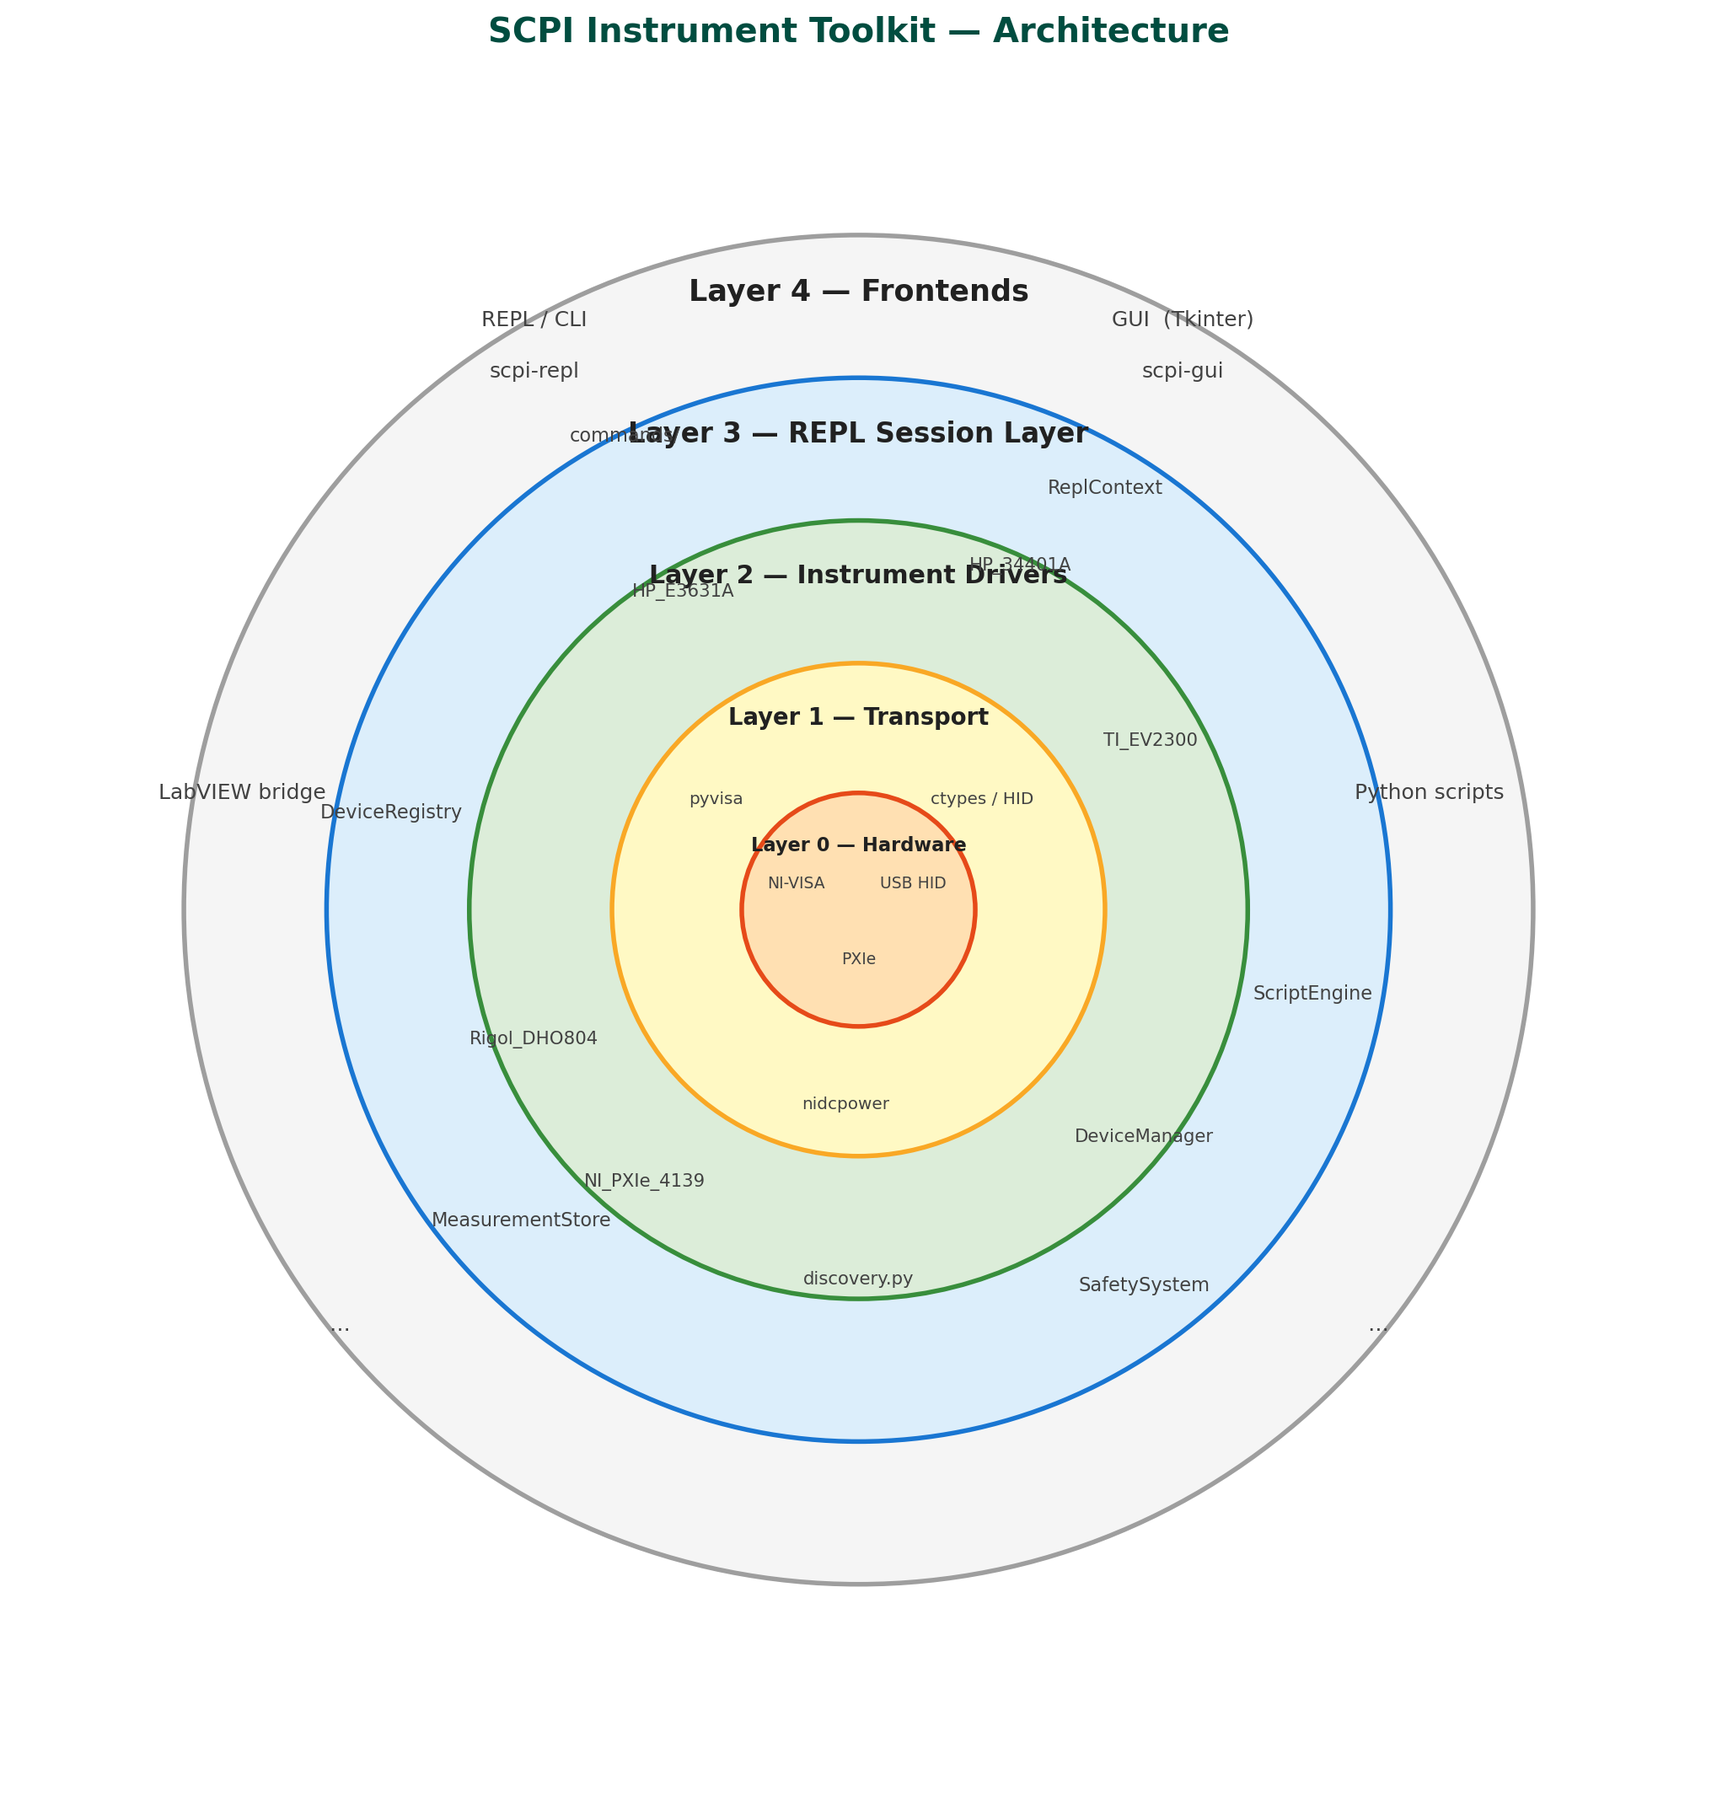
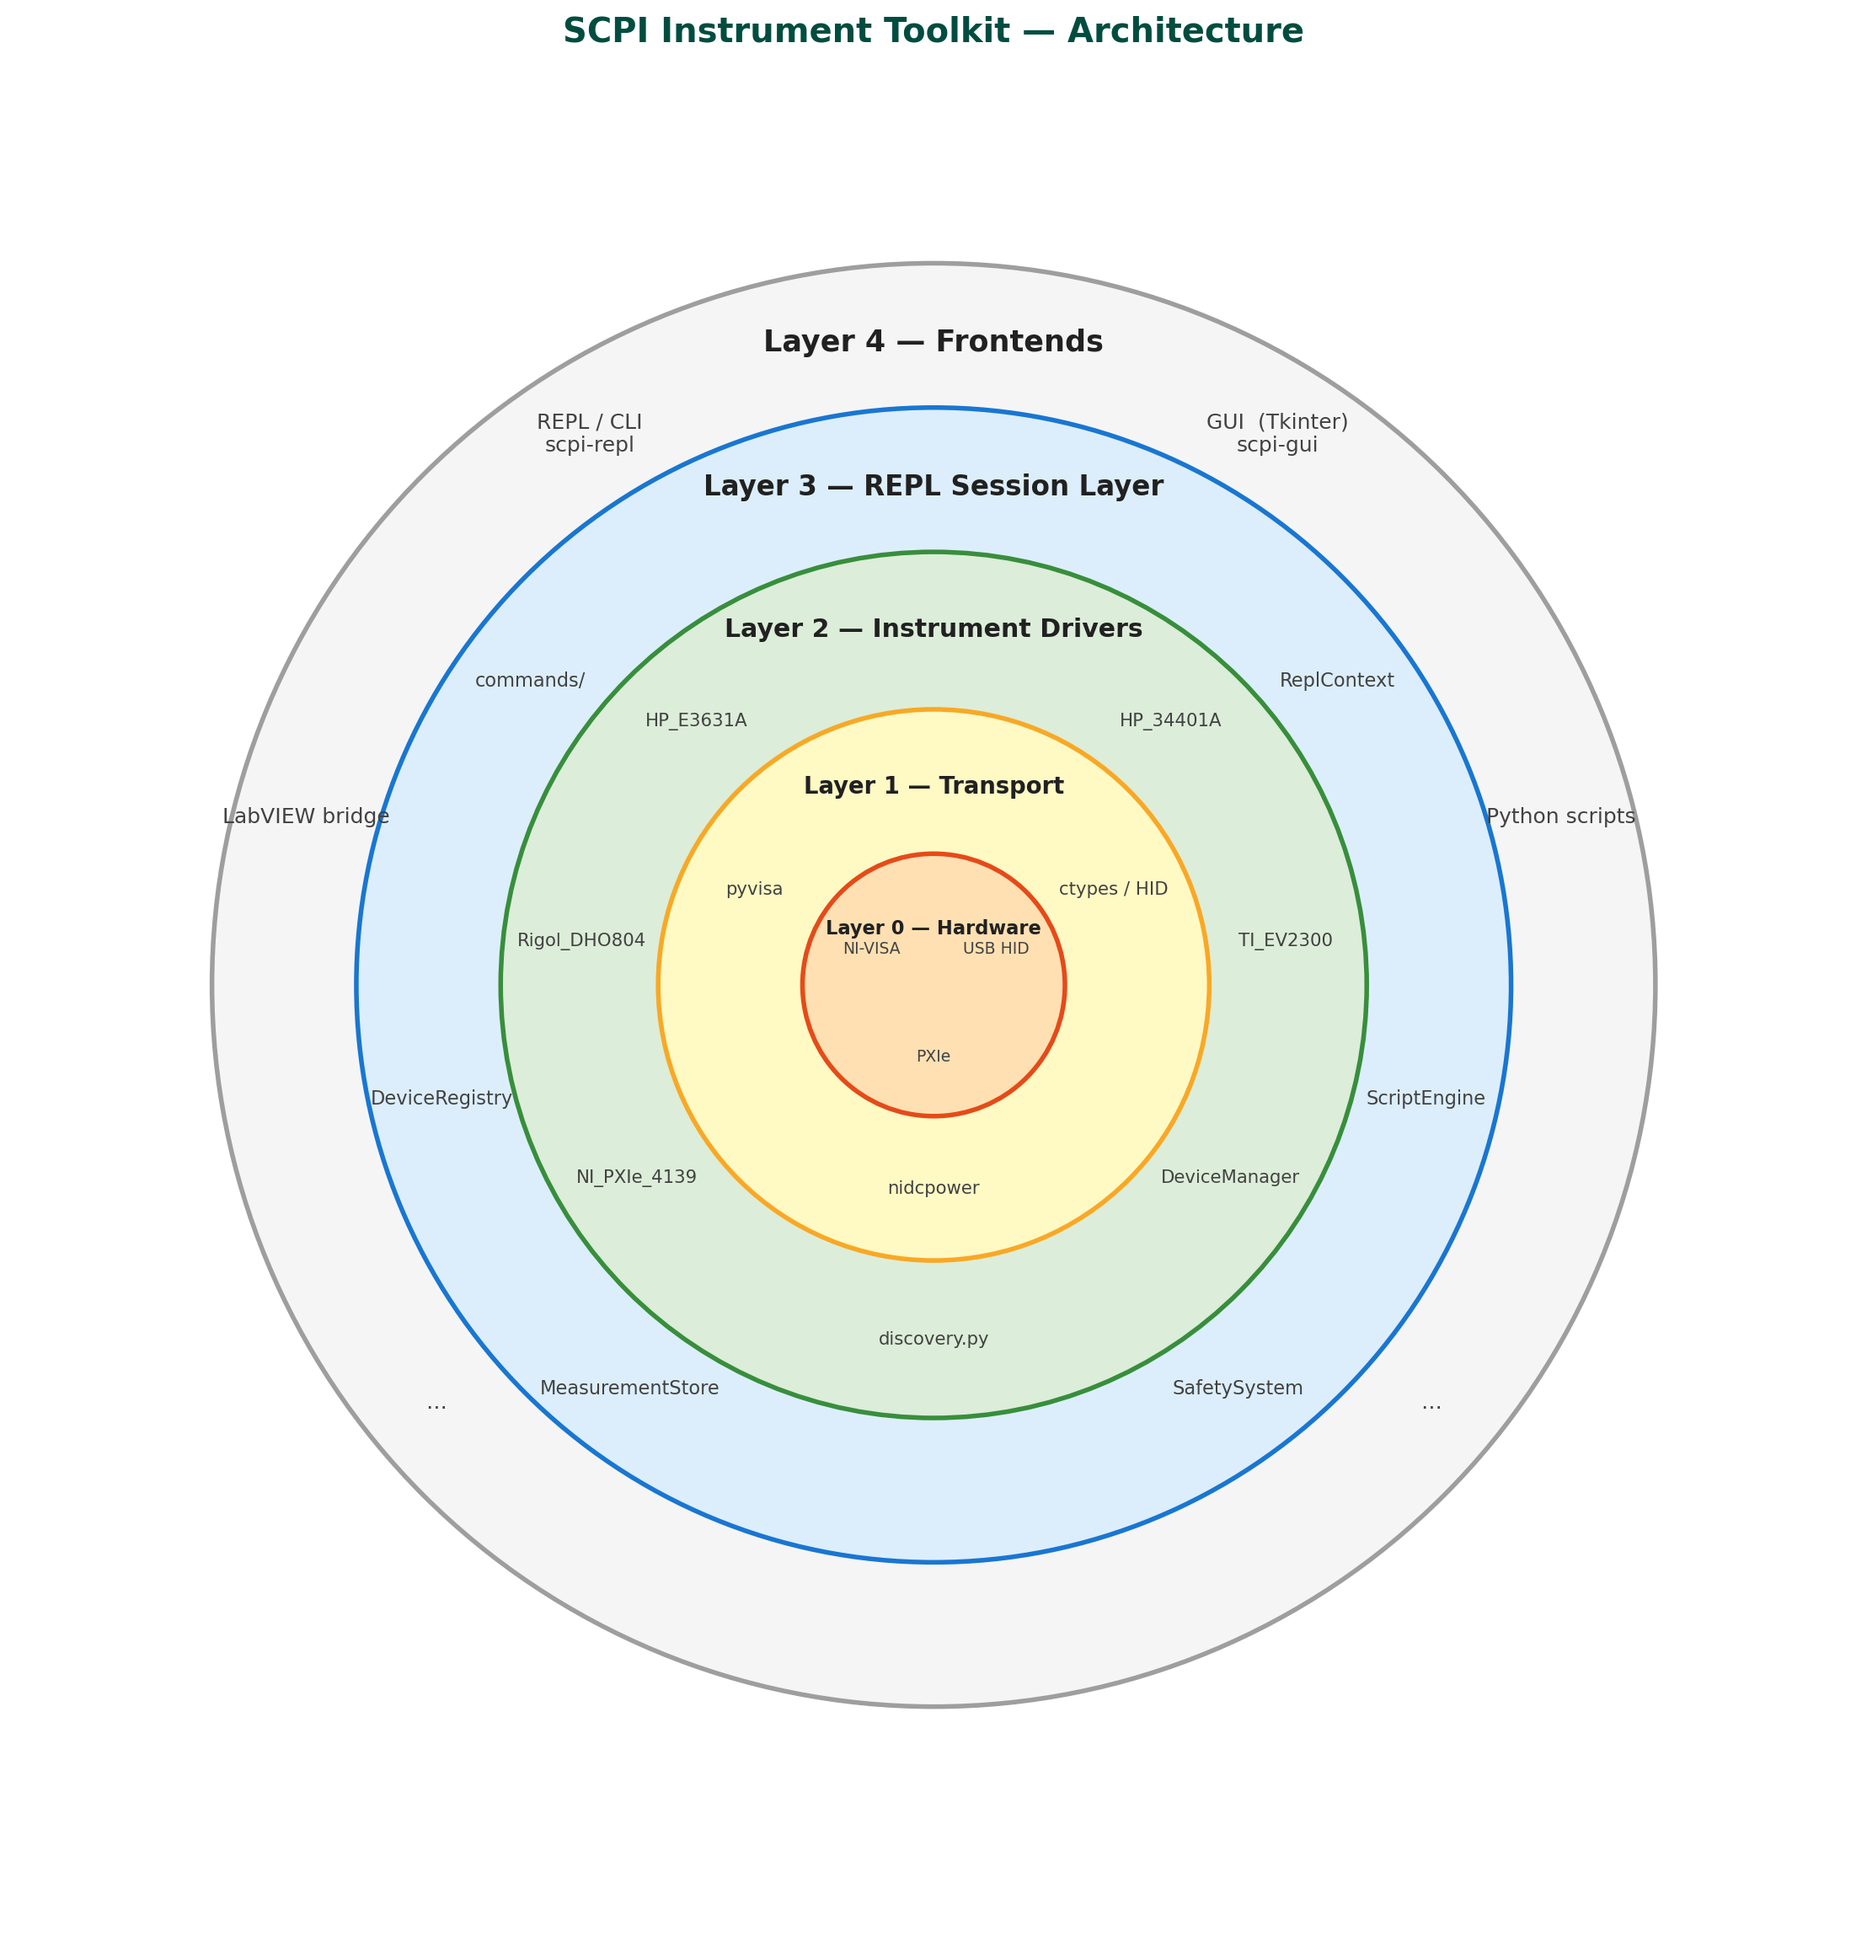
Fix architecture diagram text overlap
Switch to angle-based item placement (numpy trig) with interleaved
angles between adjacent rings. Merge REPL/CLI+scpi-repl and
GUI+scpi-gui into two-line labels to eliminate intra-ring crowding.

diff --git a/scripts/gen_architecture_diagram.py b/scripts/gen_architecture_diagram.py
@@ -1,94 +1,112 @@
 """Generate concentric-circle architecture diagram (reference: AI/ML onion style)."""
 
+import numpy as np
 import matplotlib.pyplot as plt
 
-fig, ax = plt.subplots(figsize=(12, 12))
-ax.set_xlim(-6.5, 6.5)
-ax.set_ylim(-6.8, 6.5)
+
+def xy(r, deg):
+    """Cartesian position at radius r, angle deg (CCW from +x axis)."""
+    rad = np.radians(deg)
+    return float(r * np.cos(rad)), float(r * np.sin(rad))
+
+
+fig, ax = plt.subplots(figsize=(13, 13))
+ax.set_xlim(-7, 7)
+ax.set_ylim(-7.3, 7)
 ax.set_aspect("equal")
 ax.axis("off")
 fig.patch.set_facecolor("white")
 
-# Each layer: (radius, fill, edge, title, title_fs, item_fs, [(label, x, y), ...])
-# Items verified to be inside their ring (r_inner < sqrt(x²+y²) < r_outer)
+# ── layer definitions ──────────────────────────────────────────────────────
+# (r_outer, fill, edge, title, title_fs, item_fs, [(label, x, y), ...])
+#
+# Radii:  5.5 | 4.4 | 3.3 | 2.1 | 1.0
+# Mid-r:      4.95  3.85  2.70  1.55  0.55
+#
+# Angles are interleaved between rings so no two adjacent items share
+# similar (angle, radius) coordinates — prevents cross-ring visual crowding.
+
+m4, m3, m2, m1, m0 = 4.95, 3.85, 2.70, 1.55, 0.55
+
 LAYERS = [
+    # ── Layer 4 — Frontends ────────────────────────────────────────────────
     (
-        5.2, "#F5F5F5", "#9E9E9E",
+        5.5, "#F5F5F5", "#9E9E9E",
         "Layer 4 — Frontends", 14, 10,
         [
-            ("REPL / CLI",        -2.5,  4.55),
-            ("scpi-repl",         -2.5,  4.15),
-            ("GUI  (Tkinter)",     2.5,  4.55),
-            ("scpi-gui",           2.5,  4.15),
-            ("LabVIEW bridge",    -4.75,  0.9),
-            ("Python scripts",     4.4,   0.9),
-            ("…",                 -4.0,  -3.2),
-            ("…",                  4.0,  -3.2),
+            ("REPL / CLI\nscpi-repl",    *xy(m4, 122)),   # upper-left
+            ("GUI  (Tkinter)\nscpi-gui", *xy(m4,  58)),   # upper-right
+            ("LabVIEW bridge",           *xy(m4, 165)),   # left
+            ("Python scripts",           *xy(m4,  15)),   # right
+            ("…",                        *xy(m4, 220)),   # lower-left
+            ("…",                        *xy(m4, 320)),   # lower-right
         ],
     ),
+    # ── Layer 3 — REPL Session Layer ───────────────────────────────────────
     (
-        4.1, "#DCEEFB", "#1976D2",
+        4.4, "#DCEEFB", "#1976D2",
         "Layer 3 — REPL Session Layer", 13, 9,
         [
-            ("commands/",         -1.8,   3.65),
-            ("ReplContext",         1.9,   3.25),
-            ("DeviceRegistry",     -3.6,   0.75),
-            ("ScriptEngine",        3.5,  -0.65),
-            ("MeasurementStore",   -2.6,  -2.4),
-            ("SafetySystem",        2.2,  -2.9),
+            ("commands/",         *xy(m3, 143)),
+            ("ReplContext",        *xy(m3,  37)),
+            ("DeviceRegistry",    *xy(m3, 193)),
+            ("ScriptEngine",      *xy(m3, 347)),
+            ("MeasurementStore",  *xy(m3, 233)),
+            ("SafetySystem",      *xy(m3, 307)),
         ],
     ),
+    # ── Layer 2 — Instrument Drivers ───────────────────────────────────────
     (
-        3.0, "#DCEDD9", "#388E3C",
+        3.3, "#DCEDD9", "#388E3C",
         "Layer 2 — Instrument Drivers", 12, 8.5,
         [
-            ("HP_E3631A",    -1.35,  2.45),
-            ("HP_34401A",     1.25,  2.65),
-            ("Rigol_DHO804", -2.5,  -1.0),
-            ("TI_EV2300",    2.25,   1.3),
-            ("NI_PXIe_4139", -1.65, -2.1),
-            ("DeviceManager", 2.2,  -1.75),
-            ("discovery.py",  0.0,  -2.85),
+            ("HP_E3631A",          *xy(m2, 132)),
+            ("HP_34401A",          *xy(m2,  48)),
+            ("Rigol_DHO804",       *xy(m2, 173)),
+            ("TI_EV2300",          *xy(m2,   7)),
+            ("NI_PXIe_4139",       *xy(m2, 213)),
+            ("DeviceManager",      *xy(m2, 327)),
+            ("discovery.py",       *xy(m2, 270)),
         ],
     ),
+    # ── Layer 1 — Transport ────────────────────────────────────────────────
     (
-        1.9, "#FFF9C4", "#F9A825",
-        "Layer 1 — Transport", 11, 8,
+        2.1, "#FFF9C4", "#F9A825",
+        "Layer 1 — Transport", 11, 8.5,
         [
-            ("pyvisa",       -1.1,  0.85),
-            ("ctypes / HID",  0.95, 0.85),
-            ("nidcpower",    -0.1, -1.5),
+            ("pyvisa",             *xy(m1, 152)),
+            ("ctypes / HID",       *xy(m1,  28)),
+            ("nidcpower",          *xy(m1, 270)),
         ],
     ),
+    # ── Layer 0 — Hardware ─────────────────────────────────────────────────
     (
-        0.9, "#FFE0B2", "#E64A19",
+        1.0, "#FFE0B2", "#E64A19",
         "Layer 0 — Hardware", 9, 7.5,
         [
-            ("NI-VISA",  -0.48,  0.2),
-            ("USB HID",   0.42,  0.2),
-            ("PXIe",      0.0,  -0.38),
+            ("NI-VISA",            *xy(m0, 150)),
+            ("USB HID",            *xy(m0,  30)),
+            ("PXIe",               *xy(m0, 270)),
         ],
     ),
 ]
 
-# Draw largest → smallest so inner circles paint on top
+# ── draw (largest → smallest so inner circles paint on top) ────────────────
 for i, (radius, fill, edge, title, tfs, ifs, items) in enumerate(LAYERS):
-    circle = plt.Circle(
+    ax.add_patch(plt.Circle(
         (0, 0), radius,
         facecolor=fill, edgecolor=edge,
         linewidth=2.2, zorder=i + 1,
-    )
-    ax.add_patch(circle)
+    ))
 
-    # Bold title just inside the top of each circle
+    # Title: bold, near top of this circle (0.5 units below the apex)
     ax.text(
-        0, radius - 0.33, title,
+        0, radius - 0.5, title,
         ha="center", va="top",
         fontsize=tfs, fontweight="bold", color="#212121",
         zorder=i + 20,
     )
 
-    # Scattered items
     for label, x, y in items:
         ax.text(
             x, y, label,
